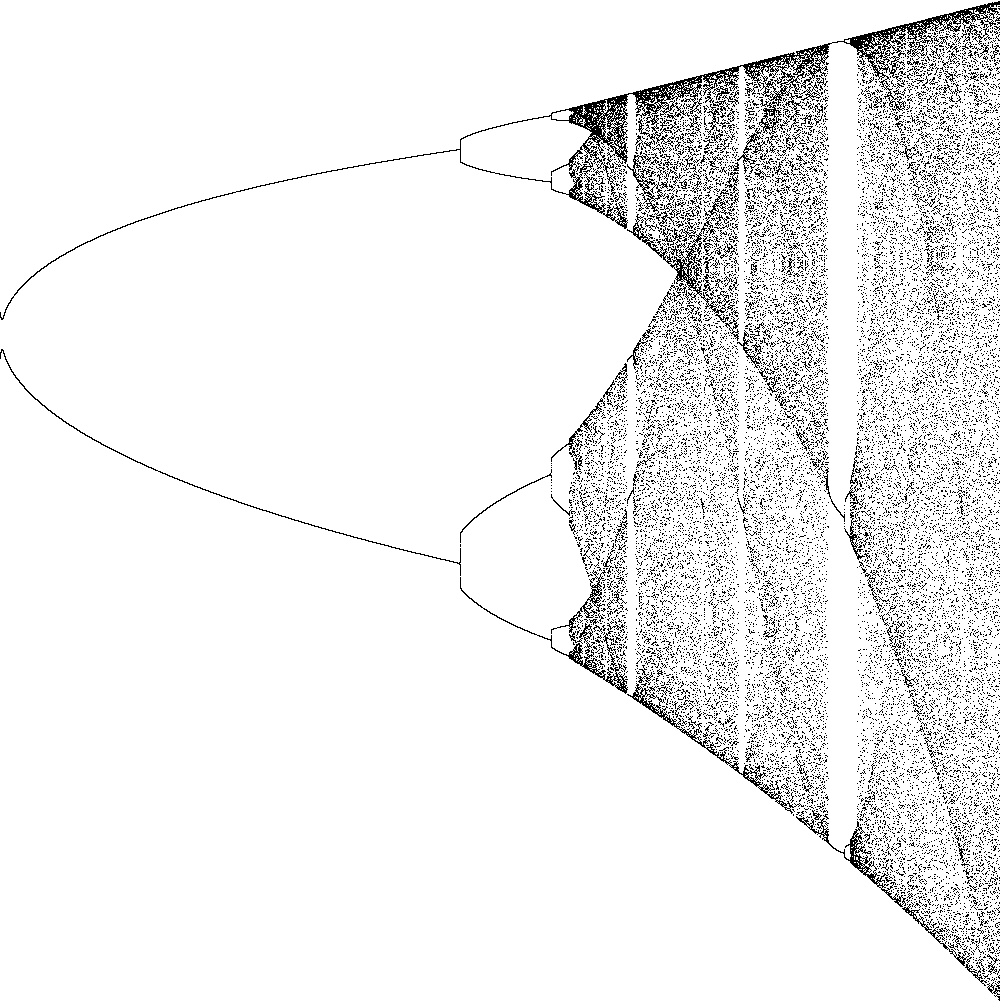
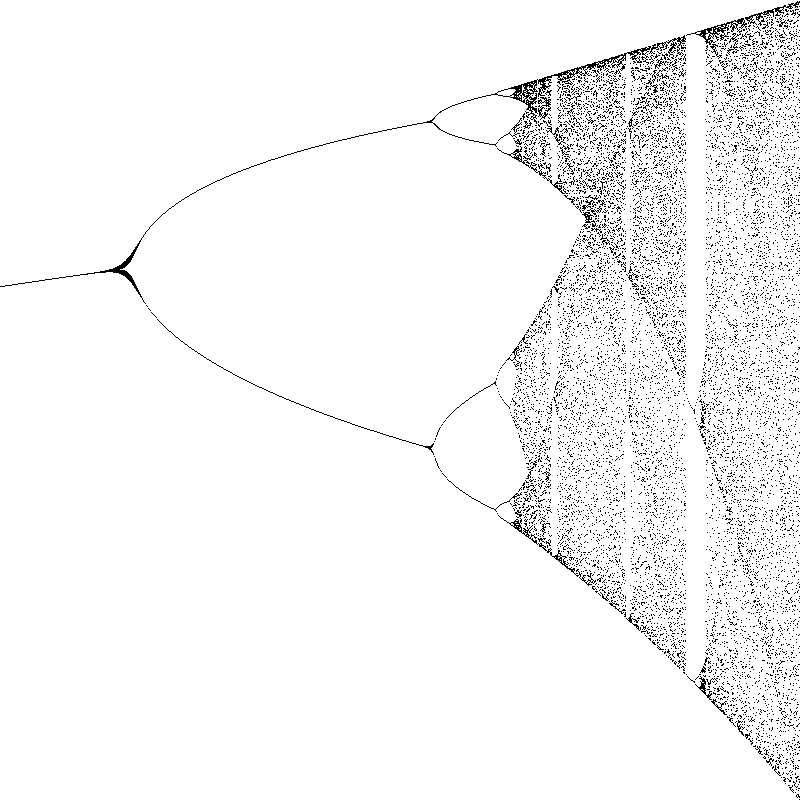
feigenbaum hotovo

diff --git a/13/hexagonal_maze.py b/13/hexagonal_maze.py
@@ -1,7 +1,6 @@
 import random
 import svgwrite
 import math
-import copy
 N=5
 
 N_sloupce = 6
@@ -10,8 +9,6 @@ N_radky = 6*2
 maze = [[[True,True,True,True,True,True] for j in range(N_sloupce)] for i in range(N_radky)]
 
 visited = []
-print(maze)
-
 
 # 0 doprava dolu
 # 1 dolu
@@ -19,7 +16,6 @@ print(maze)
 # 3 doleva nahoru
 # 4 nahoru
 # 5 doprava nahoru
-
 directions_sude = [(1,0),(2,0),(+1,-1),(-1,-1),(-2,0),(-1,0)]
 directions_liche = [(1,1),(2,0),(+1,0),(-1,0),(-2,0),(-1,1)]
 
@@ -32,6 +28,8 @@ def print_maze():
 
     for i in range(N_radky):
         shift_y =(i*y) +50
+
+        # vykresleni hexagonu v sudem sloupci sloupci
         if i%2 == 0:
             for j in range(N_sloupce):
 
@@ -44,20 +42,14 @@ def print_maze():
                     x2 = hex[idx + 1][0] + shift_x
                     y2 = hex[idx + 1][1] + shift_y
 
-                    directions = None
-                    if i % 2 == 0:
-                        directions = directions_sude
-                    else:
-                        directions = directions_liche
-
                     dir = directions_sude[idx % 6]
-                    # print("smer",idx,i,j,dir,(idx+3)%6)
 
+                    #pridani sten uvnitr bludiste
                     if 0 <= i + dir[0] < N_radky and 0 <= j + dir[1] < N_sloupce and (not maze[i][j][idx]) and (not maze[i + dir[0]][j + dir[1]][(idx + 3) % 6]):
                         print((i,j),(i + dir[0],j + dir[1]),idx)
                         dwg.add(dwg.line((x1, y1), (x2, y2), stroke=svgwrite.rgb(0, 0, 0, '%')))
 
-
+                    #pridani okraju bludiste
                     if i == 0 and (idx in [3,4,5]):
                         dwg.add(dwg.line((x1, y1), (x2, y2), stroke=svgwrite.rgb(0, 0, 0, '%')))
 
@@ -70,6 +62,7 @@ def print_maze():
                         dwg.add(dwg.line((x1, y1), (x2, y2), stroke=svgwrite.rgb(0, 0, 0, '%')))
 
 
+        # vykresleni hexagonu v lichem sloupci
         if i % 2 == 1:
             for j in range(N_sloupce):
                 shift_y = (i * y) + 50
@@ -83,19 +76,13 @@ def print_maze():
                     x2 = hex[idx + 1][0] + shift_x
                     y2 = hex[idx + 1][1] + shift_y
 
-                    directions = None
-                    if i % 2 == 0:
-                        directions = directions_sude
-                    else:
-                        directions = directions_liche
-
                     dir = directions_liche[idx % 6]
-                    # print("smer", idx, i, j, dir, (idx + 3) % 6)
 
                     if 0 <= i + dir[0] < N_radky and 0 <= j + dir[1] < N_sloupce and (not maze[i][j][idx]) and (not maze[i + dir[0]][j + dir[1]][(idx + 3) % 6]):
                         print((i,j),(i + dir[0],j + dir[1]),idx)
                         dwg.add(dwg.line((x1, y1), (x2, y2), stroke=svgwrite.rgb(0, 0, 0, '%')))
 
+                    #pridani okraju bludiste
                     if i==1 and idx==4:
                         dwg.add(dwg.line((x1, y1), (x2, y2), stroke=svgwrite.rgb(0, 0, 0, '%')))
 

diff --git a/07/feigenbaum.py b/07/feigenbaum.py
@@ -1,26 +1,31 @@
 import simple_images
+import matplotlib
+import math
 
-size = 1000
+size = 800
 img = simple_images.bmpDrawing("bifurcation_diagram_of_logistic_map.png",size,size)
 
-x_old = 0.8
-# for i in range(size):
-i=0.0
-while i<size:
-    start = 3
-    end = 6
-    y_scale =1
-    r = start + ( (4-start) * i / size)
-    x_new = r*x_old*(1-x_old)
-    # print(r,x_new)
 
-    # print(x_new*size/y_scale)
-    j = x_new*size/y_scale
-    if i>0.5 :
-        img.putpixel(int(i),int(j),0,0,0)
-    x_old = x_new
+r = r_dolni = 2.8
+r_horni = 4
 
-    i+=0.005
+data = []
+j=0
+while r<r_horni:
+    x=0.2
+
+    for i in range(200):
+        x_new = r*x*(1-x)
+        x=x_new
+        if i>100:
+            img.putpixel(j,int(x_new*size),0,0,0)
+
+    print(x)
+    data.append(x)
+    r+=(r_horni-r_dolni)/size
+    j+=1
+
+
 
 img.show()
 img.save()

diff --git a/10/nahodne_posloupnosti.py b/10/nahodne_posloupnosti.py
@@ -1,6 +1,20 @@
 import csv
+import math
 
-for i in range(1,8):
+def monte_carlo_PI(data):
+    in_circle =0
+    for idx in range(0,len(data),4):
+        # print(idx)
+        x=int(data[idx])/6
+        y=int(data[idx+1])/6
+        z=math.sqrt(x**2 + y**2)
+        # print(x,y,z)
+        if z <= 1:
+            in_circle+=1
+    print(in_circle,len(data),in_circle/(len(data)/2),math.fabs(in_circle-math.pi))
+
+
+for i in range(1,2):
     filename = ('random'+str(i)+".txt")
     data = None
     with open(filename,newline='') as csvfile:
@@ -22,4 +36,6 @@ for i in range(1,8):
         sum2 +=((O_i - E)**2)/O_i
 
     chi_squared = sum
-    print(filename,"chi squared",chi_squared,sum2)
+    # print(filename,"chi squared",chi_squared,sum2)
+
+    monte_carlo_PI(data)

diff --git a/11/linear_regression.py b/11/linear_regression.py
@@ -97,4 +97,4 @@ def random_data_generator_linear():
 
 # random_data_generator_linear()
 
-linreg()
+dummy_linreg()
